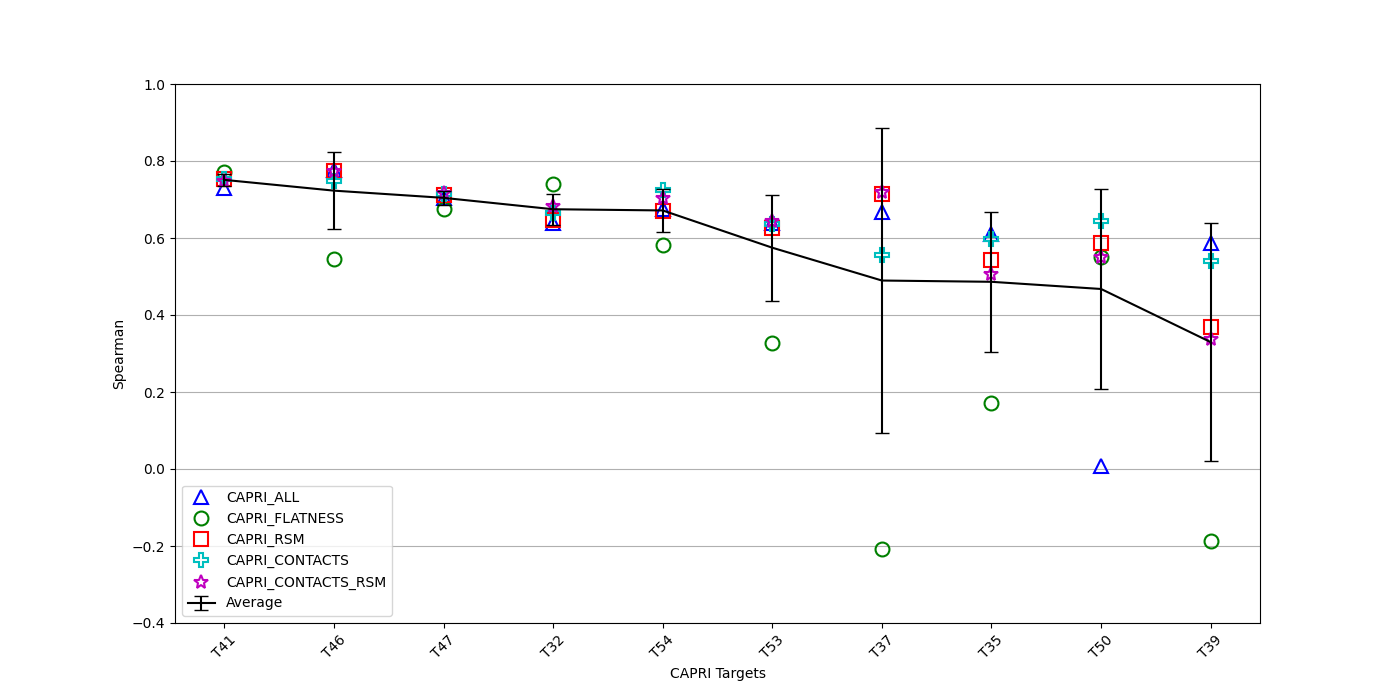
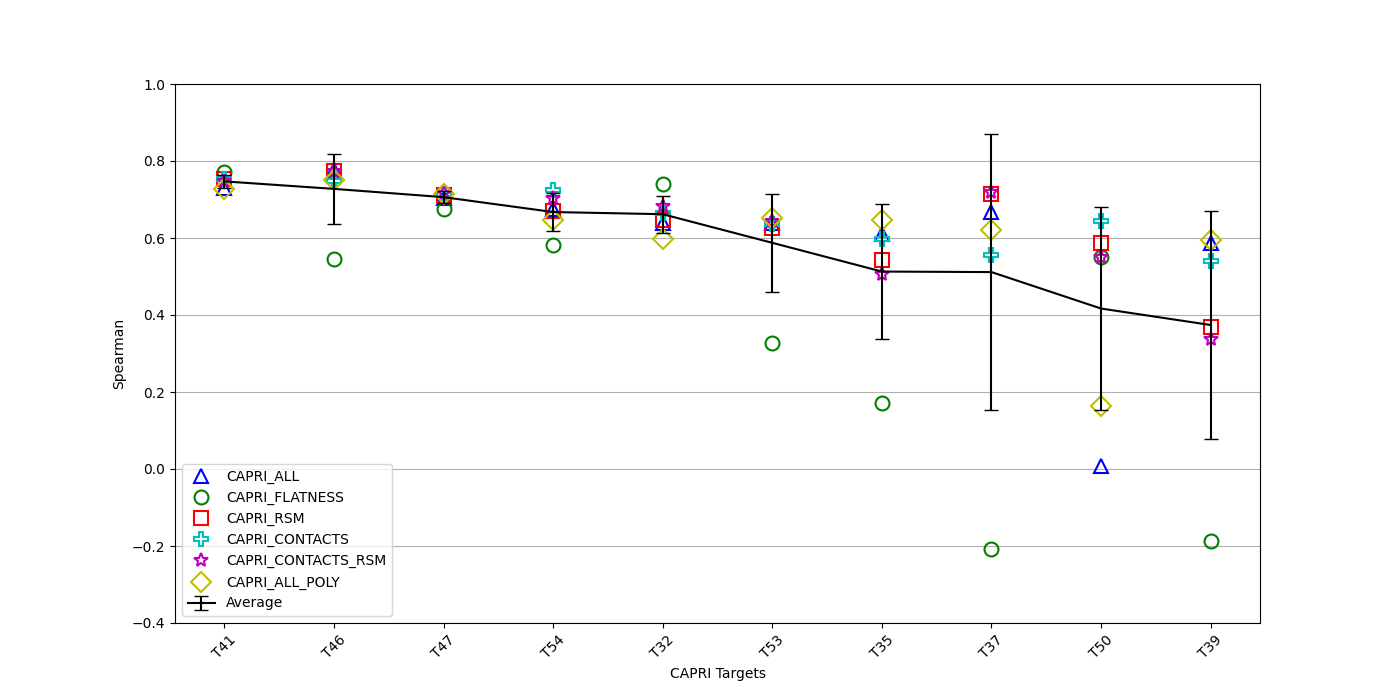
Added capri poly to graph

diff --git a/find_spearman/plot_spearman_summary.py b/find_spearman/plot_spearman_summary.py
@@ -3,7 +3,7 @@ import matplotlib.pyplot as plt
 import numpy as np
 
 # Load data from CSV files
-methods = ['CAPRI_ALL', 'CAPRI_FLATNESS', 'CAPRI_RSM', 'CAPRI_CONTACTS', "CAPRI_CONTACTS_RSM"]
+methods = ['CAPRI_ALL', 'CAPRI_FLATNESS', 'CAPRI_RSM', 'CAPRI_CONTACTS', "CAPRI_CONTACTS_RSM", "CAPRI_ALL_POLY"]
 # methods = ['CAPRI_ALL', "CAPRI_CONTACTS_RSM"]
 data = {}
 for method in methods:
